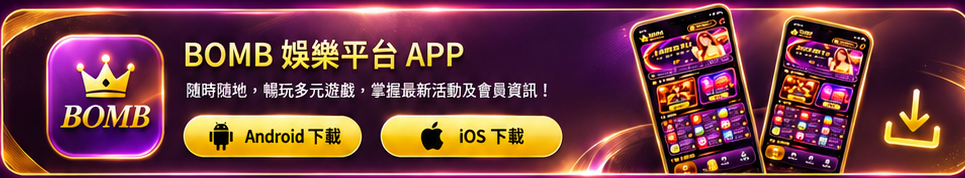
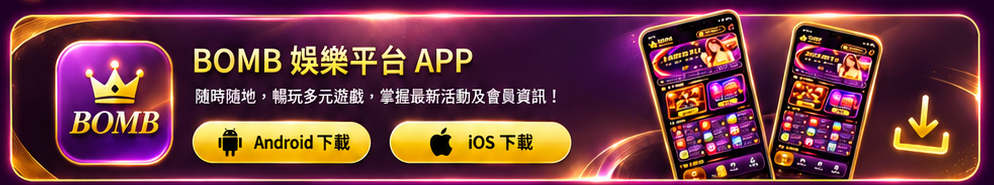
Add files via upload

diff --git a/index.html b/index.html
@@ -25,7 +25,7 @@ main{padding-top:22px}.hero{width:100%;aspect-ratio:878/195;position:relative;ov
 .hero:focus-visible{outline:2px solid #ffe568;outline-offset:4px}
 @media(max-width:480px){.hero .slide:first-child{content:normal}.hero .slide-hit{width:27px;height:27px;font-size:17px}.hero .slide-hit.prev{left:3.5%}.hero .slide-hit.next{right:3.5%}.hero .slide-dots{bottom:5%}.hero .slide-dots button{height:8px;width:8px}.hero .slide-dots button.active{height:8px;width:18px}}
 @media(prefers-reduced-motion:reduce){.hero .slide{transition:none}}
-</style><link rel="stylesheet" href="layout-1600.css"><link rel="stylesheet" href="promo-reconstruction.css"><link rel="stylesheet" href="promo-visual-v4.css"><link rel="stylesheet" href="promo-reference-v5.css"><link rel="stylesheet" href="final-fixes-v7.css"><link rel="stylesheet" href="final-referral-v8.css"><link rel="stylesheet" href="mobile-nav-v9.css"><link rel="stylesheet" href="mobile-edge-fix-v10.css"><link rel="stylesheet" href="mobile-refinement-v14.css"><link rel="stylesheet" href="desktop-app-fullframe-v18.css"></head><body>
+</style><link rel="stylesheet" href="layout-1600.css"><link rel="stylesheet" href="promo-reconstruction.css"><link rel="stylesheet" href="promo-visual-v4.css"><link rel="stylesheet" href="promo-reference-v5.css"><link rel="stylesheet" href="final-fixes-v7.css"><link rel="stylesheet" href="final-referral-v8.css"><link rel="stylesheet" href="mobile-nav-v9.css"><link rel="stylesheet" href="mobile-edge-fix-v10.css"><link rel="stylesheet" href="mobile-refinement-v14.css"><link rel="stylesheet" href="desktop-app-fullframe-v18.css"><link rel="stylesheet" href="desktop-app-mastercrop-v21.css"></head><body>
 <header class="header"><div class="shell header-inner"><a class="brand" href="#top"><span>♛</span> BOMB</a><span class="header-divider"></span><nav class="nav"><button class="active" data-nav="首頁">首頁</button><button data-nav="視訊">視訊</button><button data-nav="電子">電子</button><button data-nav="彩票">彩票</button><button data-nav="棋牌">棋牌</button><button data-nav="捕魚">捕魚</button><button data-nav="體育">體育</button><button data-nav="優惠">優惠</button></nav><div class="utilities"><button class="wallet" data-modal="會員錢包">▣ $ 28,560.00 ▾</button><button class="bell" data-modal="通知" aria-label="通知"><svg viewBox="0 0 24 24" aria-hidden="true"><path d="M12 22a2.5 2.5 0 0 0 2.45-2h-4.9A2.5 2.5 0 0 0 12 22Zm7-5H5c0-.6.36-1.14.92-1.39.8-.36 1.58-1.15 1.58-2.46v-2.9c0-2.75 1.63-5.06 4-5.75V3.75a.5.5 0 0 1 1 0v.75c2.37.69 4 3 4 5.75v2.9c0 1.31.78 2.1 1.58 2.46.56.25.92.79.92 1.39Z"/></svg></button><button class="avatar" data-modal="會員中心" aria-label="會員中心">👩🏻</button></div></div></header>
 <main id="top" class="shell"><section class="hero" aria-label="BOMB 活動輪播" aria-roledescription="輪播" tabindex="0">
 <picture class="slide active"><source media="(max-width:480px)" srcset="assets/hero_mobile_clean.webp"><img src="assets/hero_second_clean.webp" alt="多元遊戲，一站暢玩" draggable="false"></picture>

diff --git a/desktop-app-mastercrop-v21.css b/desktop-app-mastercrop-v21.css
@@ -1,0 +1,16 @@
+/* V21: desktop APP banner re-cropped directly from approved master image */
+@media (min-width:851px){
+ #download .promo{
+  width:100%!important;height:auto!important;aspect-ratio:994/185!important;
+  background-image:url("assets/app_full_frame.png")!important;
+  background-size:100% 100%!important;background-position:center center!important;background-repeat:no-repeat!important;
+  border:0!important;border-radius:0!important;box-shadow:none!important;padding:0!important;overflow:hidden!important;
+ }
+ #download .promo:before,#download .promo:after{display:none!important;content:none!important;}
+ #download .promo>.app-symbol,#download .promo>.phone-art,#download .promo>.download-icon{opacity:0!important;pointer-events:none!important;}
+ #download .promo-copy{position:absolute!important;inset:0!important;margin:0!important;padding:0!important;pointer-events:none!important;}
+ #download .promo-copy h3,#download .promo-copy p{opacity:0!important;}
+ #download .btns{position:absolute!important;left:19.3%!important;top:66.0%!important;width:39.4%!important;height:23.5%!important;display:flex!important;gap:4.6%!important;pointer-events:none!important;}
+ #download .btns button{width:47.2%!important;height:100%!important;opacity:0!important;padding:0!important;pointer-events:auto!important;}
+ #download .btns button:focus-visible{opacity:.3!important;outline:2px solid #fff!important;}
+}
